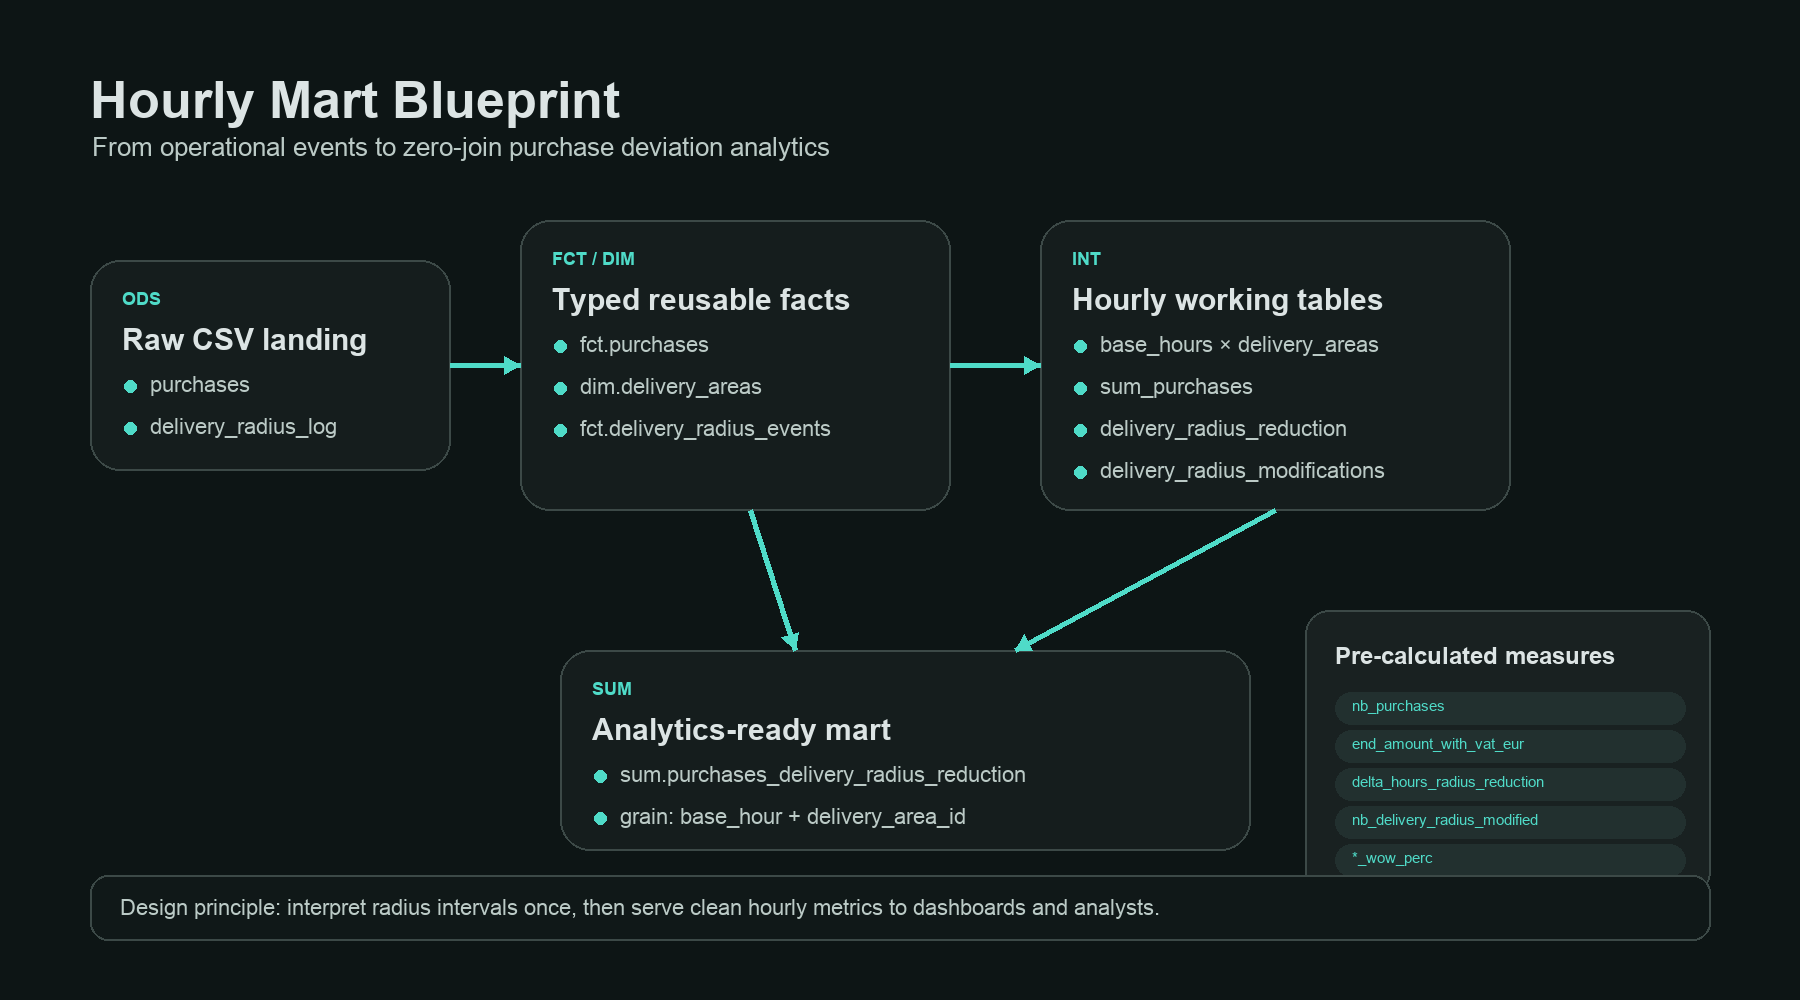
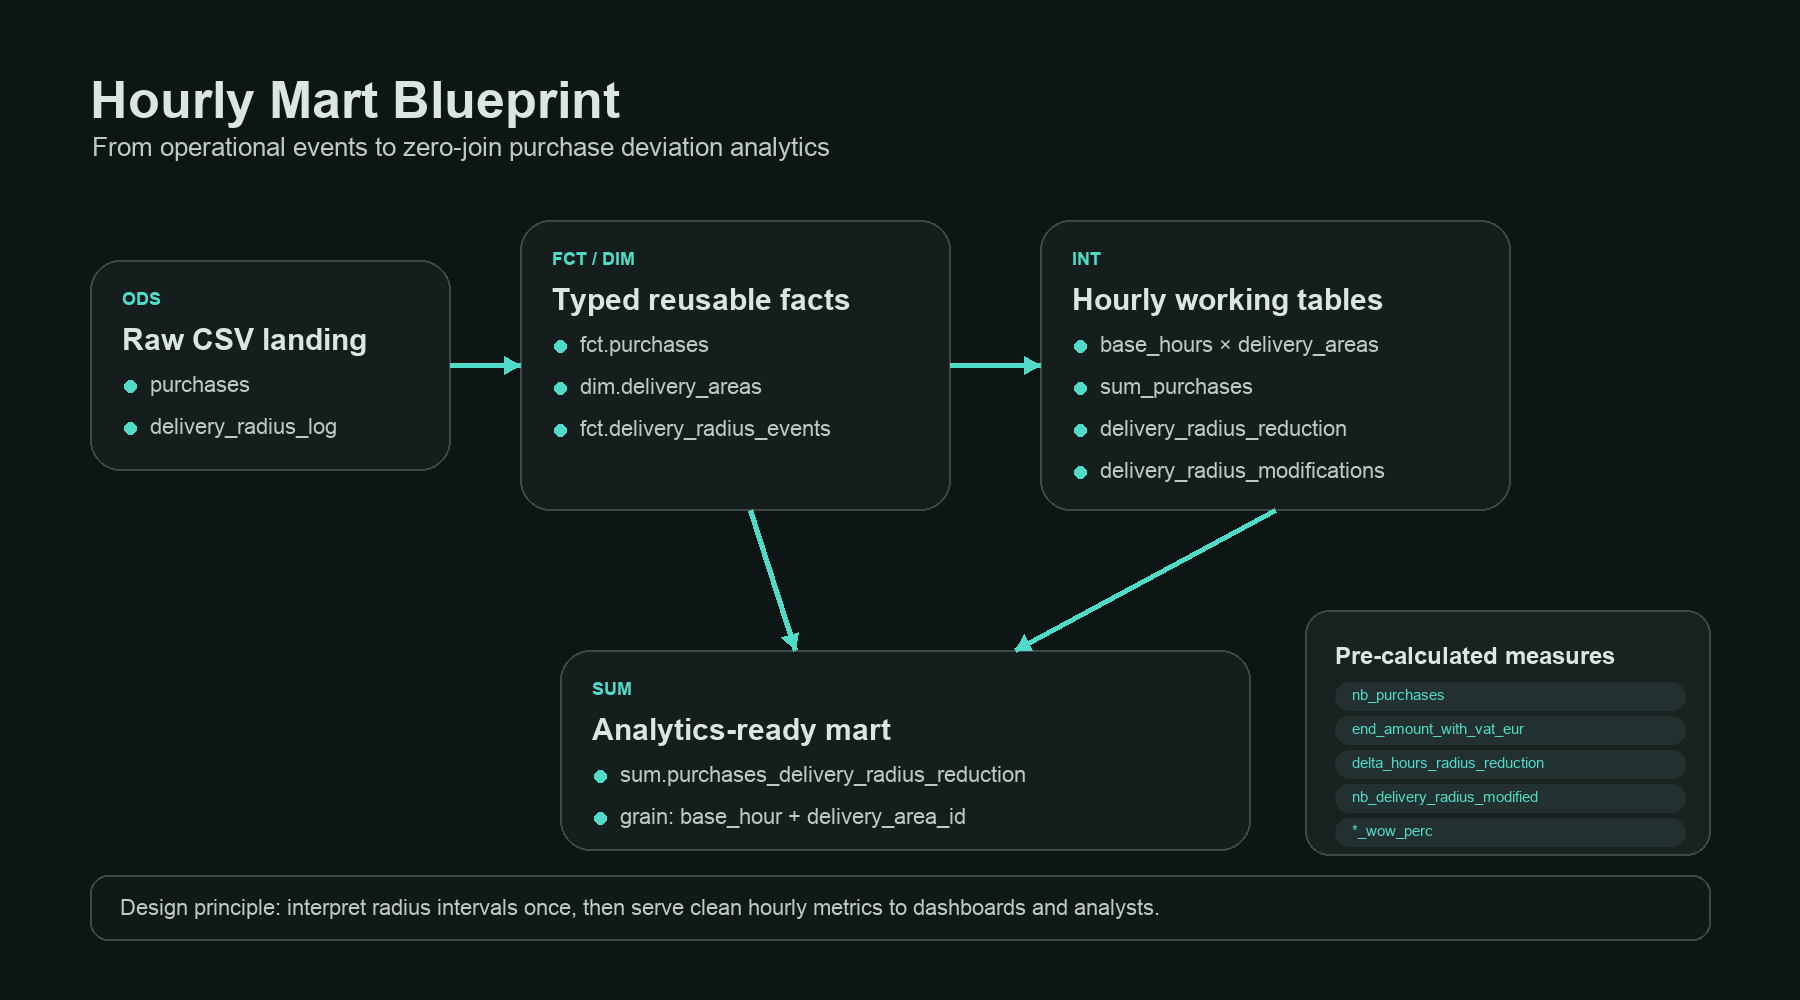
feat: update logistics case study with detailed image-list visualization and new blueprint asset

Changed region(s): [[0.7156, 0.682, 0.9644, 0.899]]

diff --git a/src/frontend/data/case_studies.js b/src/frontend/data/case_studies.js
@@ -280,8 +280,26 @@ window.CASE_STUDIES = [
         "label": "DELIVERY AREAS"
       }
     ],
-    "visualType": "code-widget",
-    "visualData": {}
+    "visualType": "image-list",
+    "visualData": {
+      "images": [
+        {
+          "title": "RADIUS REDUCTION PERFORMANCE DASHBOARD",
+          "src": "assets/case_study/logistics_radius_reduction_dashboard.png",
+          "alt": "Dashboard showing delivery radius reduction hours, purchases analyzed, revenue modeled, and commercial baseline by delivery area"
+        },
+        {
+          "title": "HOURLY MART BLUEPRINT",
+          "src": "assets/case_study/logistics_hourly_mart_blueprint.png",
+          "alt": "Data warehouse blueprint from raw purchase and delivery radius logs to hourly analytics mart"
+        },
+        {
+          "title": "DEFAULT RADIUS INTERVAL LOGIC",
+          "src": "assets/case_study/logistics_radius_interval_logic.png",
+          "alt": "Timeline explaining how default delivery radius and temporary radius reductions are classified"
+        }
+      ]
+    }
   },
   {
     "id": 6,